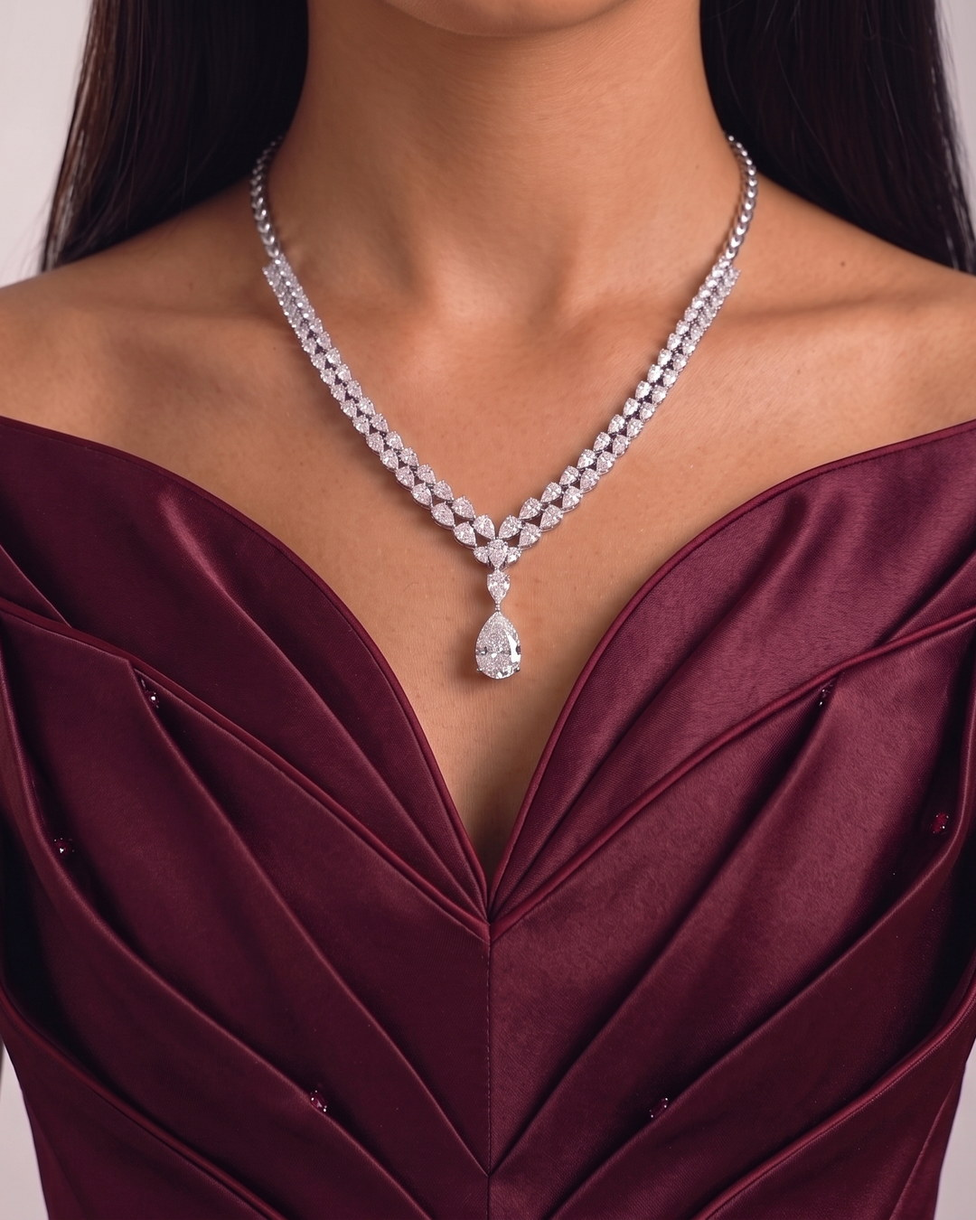
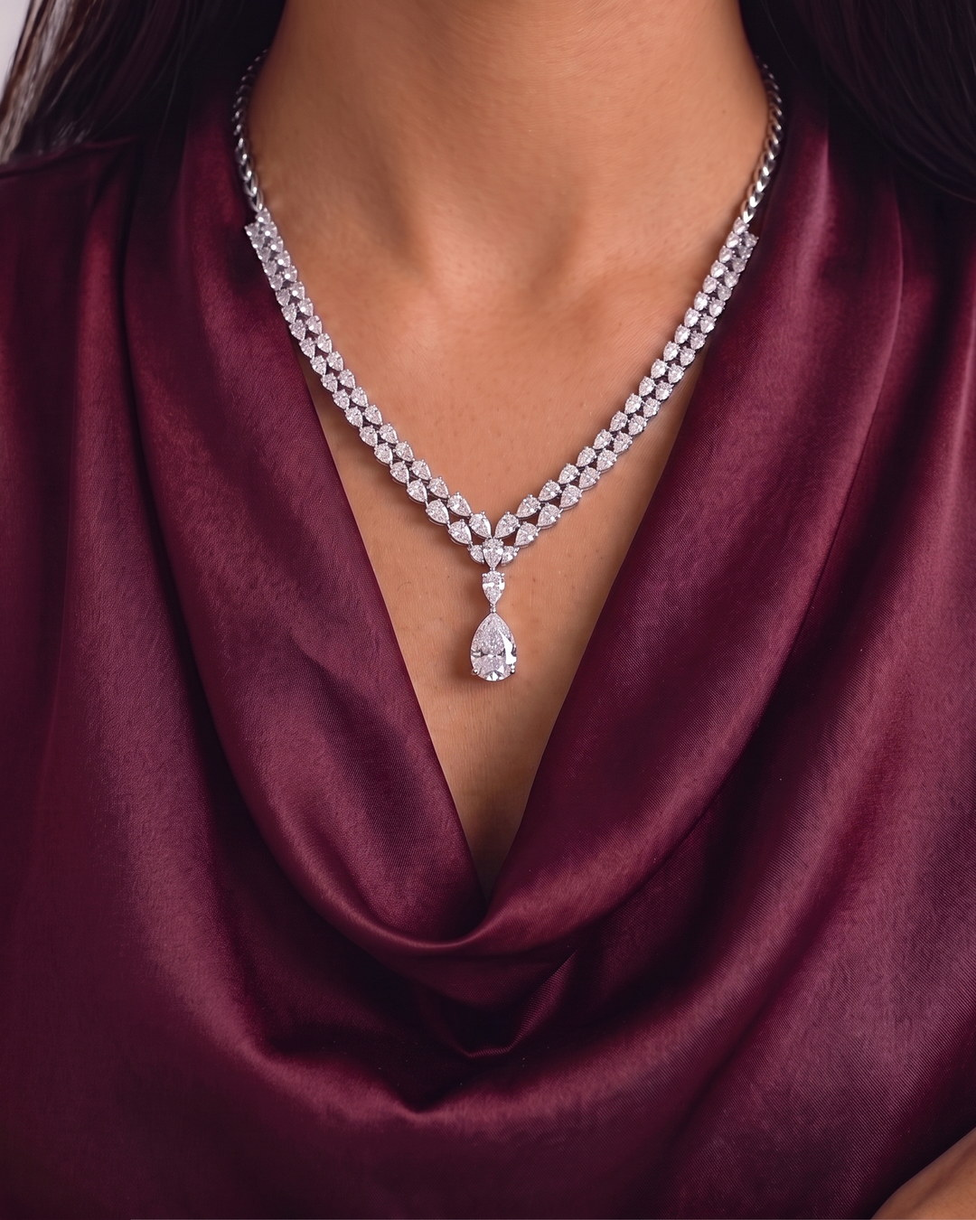
هوفر القلادة المتدلية: الكادر الأقرب (33.jpeg) بدل الأوسع
33.jpeg و333.jpeg نفس القلادة على نفس الموديل بكادرين. الأقرب تُقرأ فيه
القطعة أوضح داخل بلاطة صغيرة، وهو اختيار مصطفى. و44.jpeg خرجت من خريطة
الاستيراد: إسورة من نفس الطقم لا صورة ثانية لقطعة موجودة.

Claude-Session: https://claude.ai/code/session_019pVFaNZBvzsjteZn9rJSNR

diff --git a/jewellery.html b/jewellery.html
@@ -34,7 +34,7 @@
 <section class="page-head"><div class="wrap"><h1>المجوهرات</h1><p>4 قطعة · اختر الفئة أو تصفّح الكل.</p></div></section>
 <section class="section"><div class="wrap">
   <div class="chips"><a class="chip on" href="jewellery">الكل</a><a class="chip" href="jewellery/rings">خواتم</a><a class="chip" href="jewellery/necklaces">قلائد</a><a class="chip" href="jewellery/earrings">أقراط</a></div>
-  <div class="grid"><a class="card rv" href="piece/pear-quartet-ring"><span class="card-img has-hover"><img src="assets/catalogue/pear-quartet-ring.jpg?v=afaf307e" alt="خاتم الكمثرى الرباعي" loading="lazy"><img class="card-hover" src="assets/catalogue/pear-quartet-ring-model.jpg?v=ae86ff51" alt="" loading="lazy"></span><span class="card-body"><span class="card-top"><span class="card-name">خاتم الكمثرى الرباعي</span><i class="card-rule"></i><span class="card-price">اطلب السعر</span></span><span class="card-meta">ذهب أبيض</span></span></a><a class="card rv" href="piece/pear-drop-necklace"><span class="card-img has-hover"><img src="assets/catalogue/pear-drop-necklace.jpg?v=68568751" alt="قلادة الكمثرى المتدلية" loading="lazy"><img class="card-hover" src="assets/catalogue/pear-drop-necklace-model.jpg?v=5755f7fe" alt="" loading="lazy"></span><span class="card-body"><span class="card-top"><span class="card-name">قلادة الكمثرى المتدلية</span><i class="card-rule"></i><span class="card-price">اطلب السعر</span></span><span class="card-meta">ذهب أبيض</span></span></a><a class="card rv" href="piece/marquise-collar-necklace"><span class="card-img"><img src="assets/catalogue/marquise-collar-necklace.jpg?v=a2a0348d" alt="قلادة المركيز العريضة" loading="lazy"></span><span class="card-body"><span class="card-top"><span class="card-name">قلادة المركيز العريضة</span><i class="card-rule"></i><span class="card-price">اطلب السعر</span></span><span class="card-meta">ذهب أبيض</span></span></a><a class="card rv" href="piece/cascade-earrings"><span class="card-img has-hover"><img src="assets/catalogue/cascade-earrings.jpg?v=44429a73" alt="أقراط الشلال" loading="lazy"><img class="card-hover" src="assets/catalogue/cascade-earrings-model.jpg?v=7e8f4a0d" alt="" loading="lazy"></span><span class="card-body"><span class="card-top"><span class="card-name">أقراط الشلال</span><i class="card-rule"></i><span class="card-price">اطلب السعر</span></span><span class="card-meta">ذهب أبيض</span></span></a></div>
+  <div class="grid"><a class="card rv" href="piece/pear-quartet-ring"><span class="card-img has-hover"><img src="assets/catalogue/pear-quartet-ring.jpg?v=afaf307e" alt="خاتم الكمثرى الرباعي" loading="lazy"><img class="card-hover" src="assets/catalogue/pear-quartet-ring-model.jpg?v=ae86ff51" alt="" loading="lazy"></span><span class="card-body"><span class="card-top"><span class="card-name">خاتم الكمثرى الرباعي</span><i class="card-rule"></i><span class="card-price">اطلب السعر</span></span><span class="card-meta">ذهب أبيض</span></span></a><a class="card rv" href="piece/pear-drop-necklace"><span class="card-img has-hover"><img src="assets/catalogue/pear-drop-necklace.jpg?v=68568751" alt="قلادة الكمثرى المتدلية" loading="lazy"><img class="card-hover" src="assets/catalogue/pear-drop-necklace-model.jpg?v=91d00fc5" alt="" loading="lazy"></span><span class="card-body"><span class="card-top"><span class="card-name">قلادة الكمثرى المتدلية</span><i class="card-rule"></i><span class="card-price">اطلب السعر</span></span><span class="card-meta">ذهب أبيض</span></span></a><a class="card rv" href="piece/marquise-collar-necklace"><span class="card-img"><img src="assets/catalogue/marquise-collar-necklace.jpg?v=a2a0348d" alt="قلادة المركيز العريضة" loading="lazy"></span><span class="card-body"><span class="card-top"><span class="card-name">قلادة المركيز العريضة</span><i class="card-rule"></i><span class="card-price">اطلب السعر</span></span><span class="card-meta">ذهب أبيض</span></span></a><a class="card rv" href="piece/cascade-earrings"><span class="card-img has-hover"><img src="assets/catalogue/cascade-earrings.jpg?v=44429a73" alt="أقراط الشلال" loading="lazy"><img class="card-hover" src="assets/catalogue/cascade-earrings-model.jpg?v=7e8f4a0d" alt="" loading="lazy"></span><span class="card-body"><span class="card-top"><span class="card-name">أقراط الشلال</span><i class="card-rule"></i><span class="card-price">اطلب السعر</span></span><span class="card-meta">ذهب أبيض</span></span></a></div>
 </div></section>
 <section class="cta"><img class="cta-bg" src="assets/editorial/campaign-hero.jpg" alt="" loading="lazy"><div class="wrap"><h2>ما لقيت اللي تبيه؟</h2><p>راسلنا ووصف لنا القطعة، أو احجز زيارة للمعرض وشوفها بنفسك.</p><div class="cta-acts"><a class="btn btn-gold" href="https://wa.me/966138320814?text=%D8%A7%D9%84%D8%B3%D9%84%D8%A7%D9%85%20%D8%B9%D9%84%D9%8A%D9%83%D9%85%D8%8C%20%D8%A3%D8%A8%D8%AD%D8%AB%20%D8%B9%D9%86%20%D9%82%D8%B7%D8%B9%D8%A9%20%D9%85%D8%B9%D9%8A%D9%86%D8%A9." target="_blank" rel="noopener">راسلنا واتساب</a><a class="btn btn-ghost" href="contact">زيارة المعرض</a></div></div></section></main>
 <footer class="footer">

diff --git a/index.html b/index.html
@@ -56,7 +56,7 @@
 </div></section>
 <section class="section on-light"><div class="wrap">
   <div class="sec-head rv"><span class="sec-eyebrow">✳ &nbsp;مختارات</span>    <div class="sec-top"><h2>قطع اخترناها بأنفسنا</h2><a class="more" href="jewellery">شوف الكل ←</a></div></div>
-  <div class="grid"><a class="card rv" href="piece/pear-quartet-ring"><span class="card-img has-hover"><img src="assets/catalogue/pear-quartet-ring.jpg?v=afaf307e" alt="خاتم الكمثرى الرباعي" loading="lazy"><img class="card-hover" src="assets/catalogue/pear-quartet-ring-model.jpg?v=ae86ff51" alt="" loading="lazy"></span><span class="card-body"><span class="card-top"><span class="card-name">خاتم الكمثرى الرباعي</span><i class="card-rule"></i><span class="card-price">اطلب السعر</span></span><span class="card-meta">ذهب أبيض</span></span></a><a class="card rv" href="piece/pear-drop-necklace"><span class="card-img has-hover"><img src="assets/catalogue/pear-drop-necklace.jpg?v=68568751" alt="قلادة الكمثرى المتدلية" loading="lazy"><img class="card-hover" src="assets/catalogue/pear-drop-necklace-model.jpg?v=5755f7fe" alt="" loading="lazy"></span><span class="card-body"><span class="card-top"><span class="card-name">قلادة الكمثرى المتدلية</span><i class="card-rule"></i><span class="card-price">اطلب السعر</span></span><span class="card-meta">ذهب أبيض</span></span></a><a class="card rv" href="piece/marquise-collar-necklace"><span class="card-img"><img src="assets/catalogue/marquise-collar-necklace.jpg?v=a2a0348d" alt="قلادة المركيز العريضة" loading="lazy"></span><span class="card-body"><span class="card-top"><span class="card-name">قلادة المركيز العريضة</span><i class="card-rule"></i><span class="card-price">اطلب السعر</span></span><span class="card-meta">ذهب أبيض</span></span></a><a class="card rv" href="piece/cascade-earrings"><span class="card-img has-hover"><img src="assets/catalogue/cascade-earrings.jpg?v=44429a73" alt="أقراط الشلال" loading="lazy"><img class="card-hover" src="assets/catalogue/cascade-earrings-model.jpg?v=7e8f4a0d" alt="" loading="lazy"></span><span class="card-body"><span class="card-top"><span class="card-name">أقراط الشلال</span><i class="card-rule"></i><span class="card-price">اطلب السعر</span></span><span class="card-meta">ذهب أبيض</span></span></a></div>
+  <div class="grid"><a class="card rv" href="piece/pear-quartet-ring"><span class="card-img has-hover"><img src="assets/catalogue/pear-quartet-ring.jpg?v=afaf307e" alt="خاتم الكمثرى الرباعي" loading="lazy"><img class="card-hover" src="assets/catalogue/pear-quartet-ring-model.jpg?v=ae86ff51" alt="" loading="lazy"></span><span class="card-body"><span class="card-top"><span class="card-name">خاتم الكمثرى الرباعي</span><i class="card-rule"></i><span class="card-price">اطلب السعر</span></span><span class="card-meta">ذهب أبيض</span></span></a><a class="card rv" href="piece/pear-drop-necklace"><span class="card-img has-hover"><img src="assets/catalogue/pear-drop-necklace.jpg?v=68568751" alt="قلادة الكمثرى المتدلية" loading="lazy"><img class="card-hover" src="assets/catalogue/pear-drop-necklace-model.jpg?v=91d00fc5" alt="" loading="lazy"></span><span class="card-body"><span class="card-top"><span class="card-name">قلادة الكمثرى المتدلية</span><i class="card-rule"></i><span class="card-price">اطلب السعر</span></span><span class="card-meta">ذهب أبيض</span></span></a><a class="card rv" href="piece/marquise-collar-necklace"><span class="card-img"><img src="assets/catalogue/marquise-collar-necklace.jpg?v=a2a0348d" alt="قلادة المركيز العريضة" loading="lazy"></span><span class="card-body"><span class="card-top"><span class="card-name">قلادة المركيز العريضة</span><i class="card-rule"></i><span class="card-price">اطلب السعر</span></span><span class="card-meta">ذهب أبيض</span></span></a><a class="card rv" href="piece/cascade-earrings"><span class="card-img has-hover"><img src="assets/catalogue/cascade-earrings.jpg?v=44429a73" alt="أقراط الشلال" loading="lazy"><img class="card-hover" src="assets/catalogue/cascade-earrings-model.jpg?v=7e8f4a0d" alt="" loading="lazy"></span><span class="card-body"><span class="card-top"><span class="card-name">أقراط الشلال</span><i class="card-rule"></i><span class="card-price">اطلب السعر</span></span><span class="card-meta">ذهب أبيض</span></span></a></div>
 </div></section>
 <section class="section"><div class="wrap">
   <div class="sec-head rv"><span class="sec-eyebrow">✳ &nbsp;المناسبات</span>    <h2>تشتري لمناسبة؟</h2><p>أغلب الناس يشترون لمناسبة، لا لقطعة بعينها. اختر المناسبة ونبسّط لك القرار.</p></div>

diff --git a/occasions/engagement.html b/occasions/engagement.html
@@ -33,7 +33,7 @@
 <main id="main">
 <section class="page-head"><div class="wrap"><nav class="crumb"><a href="../">الرئيسية</a> · <a href="../occasions">المناسبات</a> · <span>الخطوبة</span></nav><h1>الخطوبة</h1><p>خواتم خطوبة بحجر مركزي، مع إمكانية اختيار الحجر والعيار.</p></div></section>
 <section class="section"><div class="wrap">  <div class="guide">نساعدك في اختيار المقاس بسرية إذا كانت مفاجأة.</div>
-  <div class="grid"><a class="card rv" href="../piece/pear-quartet-ring"><span class="card-img has-hover"><img src="../assets/catalogue/pear-quartet-ring.jpg?v=afaf307e" alt="خاتم الكمثرى الرباعي" loading="lazy"><img class="card-hover" src="../assets/catalogue/pear-quartet-ring-model.jpg?v=ae86ff51" alt="" loading="lazy"></span><span class="card-body"><span class="card-top"><span class="card-name">خاتم الكمثرى الرباعي</span><i class="card-rule"></i><span class="card-price">اطلب السعر</span></span><span class="card-meta">ذهب أبيض</span></span></a><a class="card rv" href="../piece/pear-drop-necklace"><span class="card-img has-hover"><img src="../assets/catalogue/pear-drop-necklace.jpg?v=68568751" alt="قلادة الكمثرى المتدلية" loading="lazy"><img class="card-hover" src="../assets/catalogue/pear-drop-necklace-model.jpg?v=5755f7fe" alt="" loading="lazy"></span><span class="card-body"><span class="card-top"><span class="card-name">قلادة الكمثرى المتدلية</span><i class="card-rule"></i><span class="card-price">اطلب السعر</span></span><span class="card-meta">ذهب أبيض</span></span></a><a class="card rv" href="../piece/cascade-earrings"><span class="card-img has-hover"><img src="../assets/catalogue/cascade-earrings.jpg?v=44429a73" alt="أقراط الشلال" loading="lazy"><img class="card-hover" src="../assets/catalogue/cascade-earrings-model.jpg?v=7e8f4a0d" alt="" loading="lazy"></span><span class="card-body"><span class="card-top"><span class="card-name">أقراط الشلال</span><i class="card-rule"></i><span class="card-price">اطلب السعر</span></span><span class="card-meta">ذهب أبيض</span></span></a></div>
+  <div class="grid"><a class="card rv" href="../piece/pear-quartet-ring"><span class="card-img has-hover"><img src="../assets/catalogue/pear-quartet-ring.jpg?v=afaf307e" alt="خاتم الكمثرى الرباعي" loading="lazy"><img class="card-hover" src="../assets/catalogue/pear-quartet-ring-model.jpg?v=ae86ff51" alt="" loading="lazy"></span><span class="card-body"><span class="card-top"><span class="card-name">خاتم الكمثرى الرباعي</span><i class="card-rule"></i><span class="card-price">اطلب السعر</span></span><span class="card-meta">ذهب أبيض</span></span></a><a class="card rv" href="../piece/pear-drop-necklace"><span class="card-img has-hover"><img src="../assets/catalogue/pear-drop-necklace.jpg?v=68568751" alt="قلادة الكمثرى المتدلية" loading="lazy"><img class="card-hover" src="../assets/catalogue/pear-drop-necklace-model.jpg?v=91d00fc5" alt="" loading="lazy"></span><span class="card-body"><span class="card-top"><span class="card-name">قلادة الكمثرى المتدلية</span><i class="card-rule"></i><span class="card-price">اطلب السعر</span></span><span class="card-meta">ذهب أبيض</span></span></a><a class="card rv" href="../piece/cascade-earrings"><span class="card-img has-hover"><img src="../assets/catalogue/cascade-earrings.jpg?v=44429a73" alt="أقراط الشلال" loading="lazy"><img class="card-hover" src="../assets/catalogue/cascade-earrings-model.jpg?v=7e8f4a0d" alt="" loading="lazy"></span><span class="card-body"><span class="card-top"><span class="card-name">أقراط الشلال</span><i class="card-rule"></i><span class="card-price">اطلب السعر</span></span><span class="card-meta">ذهب أبيض</span></span></a></div>
 </div></section>
 <section class="cta"><img class="cta-bg" src="../assets/editorial/campaign-hero.jpg" alt="" loading="lazy"><div class="wrap"><h2>ما لقيت اللي تبيه؟</h2><p>راسلنا ووصف لنا القطعة، أو احجز زيارة للمعرض وشوفها بنفسك.</p><div class="cta-acts"><a class="btn btn-gold" href="https://wa.me/966138320814?text=%D8%A7%D9%84%D8%B3%D9%84%D8%A7%D9%85%20%D8%B9%D9%84%D9%8A%D9%83%D9%85%D8%8C%20%D8%A3%D8%A8%D8%AD%D8%AB%20%D8%B9%D9%86%20%D9%82%D8%B7%D8%B9%D8%A9%20%D9%85%D8%B9%D9%8A%D9%86%D8%A9." target="_blank" rel="noopener">راسلنا واتساب</a><a class="btn btn-ghost" href="../contact">زيارة المعرض</a></div></div></section></main>
 <footer class="footer">

diff --git a/occasions/wedding.html b/occasions/wedding.html
@@ -33,7 +33,7 @@
 <main id="main">
 <section class="page-head"><div class="wrap"><nav class="crumb"><a href="../">الرئيسية</a> · <a href="../occasions">المناسبات</a> · <span>الزواج والملكة</span></nav><h1>الزواج والملكة</h1><p>أطقم وقطع تليق بليلة العمر، ويمكن تنفيذها بتصميم خاص للعروس.</p></div></section>
 <section class="section"><div class="wrap">  <div class="guide">ننصح بالبدء قبل الموعد بشهرين على الأقل إذا كان التصميم خاصاً.</div>
-  <div class="grid"><a class="card rv" href="../piece/pear-drop-necklace"><span class="card-img has-hover"><img src="../assets/catalogue/pear-drop-necklace.jpg?v=68568751" alt="قلادة الكمثرى المتدلية" loading="lazy"><img class="card-hover" src="../assets/catalogue/pear-drop-necklace-model.jpg?v=5755f7fe" alt="" loading="lazy"></span><span class="card-body"><span class="card-top"><span class="card-name">قلادة الكمثرى المتدلية</span><i class="card-rule"></i><span class="card-price">اطلب السعر</span></span><span class="card-meta">ذهب أبيض</span></span></a><a class="card rv" href="../piece/marquise-collar-necklace"><span class="card-img"><img src="../assets/catalogue/marquise-collar-necklace.jpg?v=a2a0348d" alt="قلادة المركيز العريضة" loading="lazy"></span><span class="card-body"><span class="card-top"><span class="card-name">قلادة المركيز العريضة</span><i class="card-rule"></i><span class="card-price">اطلب السعر</span></span><span class="card-meta">ذهب أبيض</span></span></a><a class="card rv" href="../piece/cascade-earrings"><span class="card-img has-hover"><img src="../assets/catalogue/cascade-earrings.jpg?v=44429a73" alt="أقراط الشلال" loading="lazy"><img class="card-hover" src="../assets/catalogue/cascade-earrings-model.jpg?v=7e8f4a0d" alt="" loading="lazy"></span><span class="card-body"><span class="card-top"><span class="card-name">أقراط الشلال</span><i class="card-rule"></i><span class="card-price">اطلب السعر</span></span><span class="card-meta">ذهب أبيض</span></span></a></div>
+  <div class="grid"><a class="card rv" href="../piece/pear-drop-necklace"><span class="card-img has-hover"><img src="../assets/catalogue/pear-drop-necklace.jpg?v=68568751" alt="قلادة الكمثرى المتدلية" loading="lazy"><img class="card-hover" src="../assets/catalogue/pear-drop-necklace-model.jpg?v=91d00fc5" alt="" loading="lazy"></span><span class="card-body"><span class="card-top"><span class="card-name">قلادة الكمثرى المتدلية</span><i class="card-rule"></i><span class="card-price">اطلب السعر</span></span><span class="card-meta">ذهب أبيض</span></span></a><a class="card rv" href="../piece/marquise-collar-necklace"><span class="card-img"><img src="../assets/catalogue/marquise-collar-necklace.jpg?v=a2a0348d" alt="قلادة المركيز العريضة" loading="lazy"></span><span class="card-body"><span class="card-top"><span class="card-name">قلادة المركيز العريضة</span><i class="card-rule"></i><span class="card-price">اطلب السعر</span></span><span class="card-meta">ذهب أبيض</span></span></a><a class="card rv" href="../piece/cascade-earrings"><span class="card-img has-hover"><img src="../assets/catalogue/cascade-earrings.jpg?v=44429a73" alt="أقراط الشلال" loading="lazy"><img class="card-hover" src="../assets/catalogue/cascade-earrings-model.jpg?v=7e8f4a0d" alt="" loading="lazy"></span><span class="card-body"><span class="card-top"><span class="card-name">أقراط الشلال</span><i class="card-rule"></i><span class="card-price">اطلب السعر</span></span><span class="card-meta">ذهب أبيض</span></span></a></div>
 </div></section>
 <section class="cta"><img class="cta-bg" src="../assets/editorial/campaign-hero.jpg" alt="" loading="lazy"><div class="wrap"><h2>ما لقيت اللي تبيه؟</h2><p>راسلنا ووصف لنا القطعة، أو احجز زيارة للمعرض وشوفها بنفسك.</p><div class="cta-acts"><a class="btn btn-gold" href="https://wa.me/966138320814?text=%D8%A7%D9%84%D8%B3%D9%84%D8%A7%D9%85%20%D8%B9%D9%84%D9%8A%D9%83%D9%85%D8%8C%20%D8%A3%D8%A8%D8%AD%D8%AB%20%D8%B9%D9%86%20%D9%82%D8%B7%D8%B9%D8%A9%20%D9%85%D8%B9%D9%8A%D9%86%D8%A9." target="_blank" rel="noopener">راسلنا واتساب</a><a class="btn btn-ghost" href="../contact">زيارة المعرض</a></div></div></section></main>
 <footer class="footer">

diff --git a/occasions/gifts.html b/occasions/gifts.html
@@ -33,7 +33,7 @@
 <main id="main">
 <section class="page-head"><div class="wrap"><nav class="crumb"><a href="../">الرئيسية</a> · <a href="../occasions">المناسبات</a> · <span>الهدايا</span></nav><h1>الهدايا</h1><p>قطع مختارة تصلح هدية في أي مناسبة، بتغليف الدار.</p></div></section>
 <section class="section"><div class="wrap">  <div class="guide">أخبرنا بالميزانية ونرشّح لك ثلاث قطع مناسبة.</div>
-  <div class="grid"><a class="card rv" href="../piece/pear-quartet-ring"><span class="card-img has-hover"><img src="../assets/catalogue/pear-quartet-ring.jpg?v=afaf307e" alt="خاتم الكمثرى الرباعي" loading="lazy"><img class="card-hover" src="../assets/catalogue/pear-quartet-ring-model.jpg?v=ae86ff51" alt="" loading="lazy"></span><span class="card-body"><span class="card-top"><span class="card-name">خاتم الكمثرى الرباعي</span><i class="card-rule"></i><span class="card-price">اطلب السعر</span></span><span class="card-meta">ذهب أبيض</span></span></a><a class="card rv" href="../piece/pear-drop-necklace"><span class="card-img has-hover"><img src="../assets/catalogue/pear-drop-necklace.jpg?v=68568751" alt="قلادة الكمثرى المتدلية" loading="lazy"><img class="card-hover" src="../assets/catalogue/pear-drop-necklace-model.jpg?v=5755f7fe" alt="" loading="lazy"></span><span class="card-body"><span class="card-top"><span class="card-name">قلادة الكمثرى المتدلية</span><i class="card-rule"></i><span class="card-price">اطلب السعر</span></span><span class="card-meta">ذهب أبيض</span></span></a></div>
+  <div class="grid"><a class="card rv" href="../piece/pear-quartet-ring"><span class="card-img has-hover"><img src="../assets/catalogue/pear-quartet-ring.jpg?v=afaf307e" alt="خاتم الكمثرى الرباعي" loading="lazy"><img class="card-hover" src="../assets/catalogue/pear-quartet-ring-model.jpg?v=ae86ff51" alt="" loading="lazy"></span><span class="card-body"><span class="card-top"><span class="card-name">خاتم الكمثرى الرباعي</span><i class="card-rule"></i><span class="card-price">اطلب السعر</span></span><span class="card-meta">ذهب أبيض</span></span></a><a class="card rv" href="../piece/pear-drop-necklace"><span class="card-img has-hover"><img src="../assets/catalogue/pear-drop-necklace.jpg?v=68568751" alt="قلادة الكمثرى المتدلية" loading="lazy"><img class="card-hover" src="../assets/catalogue/pear-drop-necklace-model.jpg?v=91d00fc5" alt="" loading="lazy"></span><span class="card-body"><span class="card-top"><span class="card-name">قلادة الكمثرى المتدلية</span><i class="card-rule"></i><span class="card-price">اطلب السعر</span></span><span class="card-meta">ذهب أبيض</span></span></a></div>
 </div></section>
 <section class="cta"><img class="cta-bg" src="../assets/editorial/campaign-hero.jpg" alt="" loading="lazy"><div class="wrap"><h2>ما لقيت اللي تبيه؟</h2><p>راسلنا ووصف لنا القطعة، أو احجز زيارة للمعرض وشوفها بنفسك.</p><div class="cta-acts"><a class="btn btn-gold" href="https://wa.me/966138320814?text=%D8%A7%D9%84%D8%B3%D9%84%D8%A7%D9%85%20%D8%B9%D9%84%D9%8A%D9%83%D9%85%D8%8C%20%D8%A3%D8%A8%D8%AD%D8%AB%20%D8%B9%D9%86%20%D9%82%D8%B7%D8%B9%D8%A9%20%D9%85%D8%B9%D9%8A%D9%86%D8%A9." target="_blank" rel="noopener">راسلنا واتساب</a><a class="btn btn-ghost" href="../contact">زيارة المعرض</a></div></div></section></main>
 <footer class="footer">

diff --git a/jewellery/necklaces.html b/jewellery/necklaces.html
@@ -34,7 +34,7 @@
 <section class="page-head"><div class="wrap"><nav class="crumb"><a href="../">الرئيسية</a> · <a href="../jewellery">المجوهرات</a> · <span>قلائد</span></nav><h1>قلائد</h1><p>قلائد ناعمة وقطع بارزة للمناسبات</p></div></section>
 <section class="section"><div class="wrap">
   <div class="chips"><a class="chip" href="../jewellery">الكل</a><a class="chip" href="rings">خواتم</a><a class="chip on" href="necklaces">قلائد</a><a class="chip" href="earrings">أقراط</a></div>
-  <div class="grid"><a class="card rv" href="../piece/pear-drop-necklace"><span class="card-img has-hover"><img src="../assets/catalogue/pear-drop-necklace.jpg?v=68568751" alt="قلادة الكمثرى المتدلية" loading="lazy"><img class="card-hover" src="../assets/catalogue/pear-drop-necklace-model.jpg?v=5755f7fe" alt="" loading="lazy"></span><span class="card-body"><span class="card-top"><span class="card-name">قلادة الكمثرى المتدلية</span><i class="card-rule"></i><span class="card-price">اطلب السعر</span></span><span class="card-meta">ذهب أبيض</span></span></a><a class="card rv" href="../piece/marquise-collar-necklace"><span class="card-img"><img src="../assets/catalogue/marquise-collar-necklace.jpg?v=a2a0348d" alt="قلادة المركيز العريضة" loading="lazy"></span><span class="card-body"><span class="card-top"><span class="card-name">قلادة المركيز العريضة</span><i class="card-rule"></i><span class="card-price">اطلب السعر</span></span><span class="card-meta">ذهب أبيض</span></span></a></div>
+  <div class="grid"><a class="card rv" href="../piece/pear-drop-necklace"><span class="card-img has-hover"><img src="../assets/catalogue/pear-drop-necklace.jpg?v=68568751" alt="قلادة الكمثرى المتدلية" loading="lazy"><img class="card-hover" src="../assets/catalogue/pear-drop-necklace-model.jpg?v=91d00fc5" alt="" loading="lazy"></span><span class="card-body"><span class="card-top"><span class="card-name">قلادة الكمثرى المتدلية</span><i class="card-rule"></i><span class="card-price">اطلب السعر</span></span><span class="card-meta">ذهب أبيض</span></span></a><a class="card rv" href="../piece/marquise-collar-necklace"><span class="card-img"><img src="../assets/catalogue/marquise-collar-necklace.jpg?v=a2a0348d" alt="قلادة المركيز العريضة" loading="lazy"></span><span class="card-body"><span class="card-top"><span class="card-name">قلادة المركيز العريضة</span><i class="card-rule"></i><span class="card-price">اطلب السعر</span></span><span class="card-meta">ذهب أبيض</span></span></a></div>
 </div></section>
 <section class="cta"><img class="cta-bg" src="../assets/editorial/campaign-hero.jpg" alt="" loading="lazy"><div class="wrap"><h2>ما لقيت اللي تبيه؟</h2><p>راسلنا ووصف لنا القطعة، أو احجز زيارة للمعرض وشوفها بنفسك.</p><div class="cta-acts"><a class="btn btn-gold" href="https://wa.me/966138320814?text=%D8%A7%D9%84%D8%B3%D9%84%D8%A7%D9%85%20%D8%B9%D9%84%D9%8A%D9%83%D9%85%D8%8C%20%D8%A3%D8%A8%D8%AD%D8%AB%20%D8%B9%D9%86%20%D9%82%D8%B7%D8%B9%D8%A9%20%D9%85%D8%B9%D9%8A%D9%86%D8%A9." target="_blank" rel="noopener">راسلنا واتساب</a><a class="btn btn-ghost" href="../contact">زيارة المعرض</a></div></div></section></main>
 <footer class="footer">

diff --git a/piece/marquise-collar-necklace.html b/piece/marquise-collar-necklace.html
@@ -44,7 +44,7 @@
     <a class="piece-visit" href="../contact">أو زر المعرض وشوفها على الطبيعة ←</a>
   </div>
 </div></section>
-<section class="section on-light"><div class="wrap"><div class="sec-head rv"><span class="sec-eyebrow">✳ &nbsp;من نفس الفئة</span><h2>قطع مشابهة</h2></div><div class="grid"><a class="card rv" href="../piece/pear-drop-necklace"><span class="card-img has-hover"><img src="../assets/catalogue/pear-drop-necklace.jpg?v=68568751" alt="قلادة الكمثرى المتدلية" loading="lazy"><img class="card-hover" src="../assets/catalogue/pear-drop-necklace-model.jpg?v=5755f7fe" alt="" loading="lazy"></span><span class="card-body"><span class="card-top"><span class="card-name">قلادة الكمثرى المتدلية</span><i class="card-rule"></i><span class="card-price">اطلب السعر</span></span><span class="card-meta">ذهب أبيض</span></span></a></div></div></section></main>
+<section class="section on-light"><div class="wrap"><div class="sec-head rv"><span class="sec-eyebrow">✳ &nbsp;من نفس الفئة</span><h2>قطع مشابهة</h2></div><div class="grid"><a class="card rv" href="../piece/pear-drop-necklace"><span class="card-img has-hover"><img src="../assets/catalogue/pear-drop-necklace.jpg?v=68568751" alt="قلادة الكمثرى المتدلية" loading="lazy"><img class="card-hover" src="../assets/catalogue/pear-drop-necklace-model.jpg?v=91d00fc5" alt="" loading="lazy"></span><span class="card-body"><span class="card-top"><span class="card-name">قلادة الكمثرى المتدلية</span><i class="card-rule"></i><span class="card-price">اطلب السعر</span></span><span class="card-meta">ذهب أبيض</span></span></a></div></div></section></main>
 <footer class="footer">
   <div class="foot-grid">
     <div>

diff --git a/piece/pear-drop-necklace.html b/piece/pear-drop-necklace.html
@@ -32,7 +32,7 @@
 </header>
 <main id="main">
 <section class="piece"><div class="wrap piece-grid">
-  <div class="piece-media rv has-hover"><img src="../assets/catalogue/pear-drop-necklace.jpg?v=68568751" alt="قلادة الكمثرى المتدلية"><img class="card-hover" src="../assets/catalogue/pear-drop-necklace-model.jpg?v=5755f7fe" alt="قلادة الكمثرى المتدلية على الموديل" loading="lazy"></div>
+  <div class="piece-media rv has-hover"><img src="../assets/catalogue/pear-drop-necklace.jpg?v=68568751" alt="قلادة الكمثرى المتدلية"><img class="card-hover" src="../assets/catalogue/pear-drop-necklace-model.jpg?v=91d00fc5" alt="قلادة الكمثرى المتدلية على الموديل" loading="lazy"></div>
   <div class="piece-info">
     <nav class="crumb"><a href="../">الرئيسية</a> · <a href="../jewellery">المجوهرات</a> · <a href="../jewellery/necklaces">قلائد</a></nav>
     <h1>قلادة الكمثرى المتدلية</h1>

diff --git a/tools/import-catalogue-images.py b/tools/import-catalogue-images.py
@@ -27,13 +27,14 @@ MAP = [
     ('1.png',    'pear-quartet-ring.jpg',           'product'),
     ('11.jpeg',  'pear-quartet-ring-model.jpg',     'model'),
     ('2.png',    'pear-drop-necklace.jpg',          'product'),
-    ('333.jpeg', 'pear-drop-necklace-model.jpg',    'model'),
+    # 33.jpeg و333.jpeg نفس القلادة على نفس الموديل بكادرين. المختار هو
+    # الأقرب لأن القلادة تُقرأ أوضح داخل بلاطة صغيرة (اختيار مصطفى 2026-07-30).
+    ('33.jpeg',  'pear-drop-necklace-model.jpg',    'model'),
     ('3.png',    'cascade-earrings.jpg',            'product'),
     ('22.jpeg',  'cascade-earrings-model.jpg',      'model'),
     ('4.png',    'marquise-collar-necklace.jpg',    'product'),
-    # ⚠ مؤقت: الإسورة لم تصل لها صورة منتج على خلفية بيضاء، فبطاقتها
-    # تستخدم صورة الموديل. تُستبدل أول ما تصل صورة المنتج.
-    ('44.jpeg',  'marquise-cuff-bracelet.jpg',      'model'),
+    # 44.jpeg إسورة من نفس الطقم، وليست صورة ثانية للقلادة العريضة. لا تدخل
+    # الكتالوج حتى تصل صورة منتجها، ولا تُستخدم هوفراً لقطعة أخرى.
 ]
 
 OUT = os.path.join('assets', 'catalogue')
